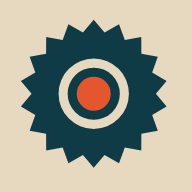
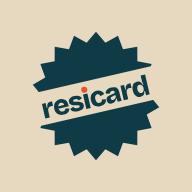
Update branding assets and documentation
Replit-Commit-Author: Agent

Changed region(s): [[0.0938, 0.0938, 0.875, 0.875]]

diff --git a/docs/CHANGELOG.md b/docs/CHANGELOG.md
@@ -5,6 +5,38 @@ The Replit brief in `docs/REPLIT-BRIEF.md` describes how the codebase works and
 does not change between archives; this file is where the version-specific detail
 lives.
 
+## Put the banded mark on the home screen tile, on trial
+
+Not the poster artwork shrunk down, which is a smudge at 56px. Redrawn for
+the tile: the band shorter, the word about a third bigger, and the inner
+ring dropped, because at that size the ring and the band are two competing
+horizontals and the mark turns to mush. Dropping the ring is what buys the
+word its legibility. It holds at 56 and 40 and it says the name, which the
+plain seal never does.
+
+What it costs is the 29px iOS settings list and anything smaller, where it
+goes to a lozenge. So this is a judgement to be made on a real home screen
+over a few days rather than from a contact sheet, and BANDED_APP_ICON in
+scripts/brand-assets.mjs turns it off again in one line.
+
+The maskable stays plain, because Android crops it to a circle and a circle
+through the banded mark cuts both ends off the band. The 32px favicon stays
+plain too and now comes from its own favicon-tile.svg, since 32 is below
+anything the band survives. The brief records which PNG comes from which
+SVG, which was not written down before.
+
+## Fill the app icon: the mark takes 78 per cent of the tile
+
+It was 62, which left the seal marooned in the middle of a sand square.
+Tested at 62, 78 and 88 in a row of real neighbouring icons: 88 pushes the
+scallop tips into the rounded corner, which iOS then masks with a radius of
+its own choosing, so 78 is as much as can be given away while the shape
+still reads as a stamp rather than a texture.
+
+The maskable stays at 60, because Android crops it to a circle.
+
+## Regenerate the changelog
+
 ## The banded seal: the mark says its own name above 72px
 
 The plain seal says nothing, so every application above thumbnail size
@@ -757,10 +789,4 @@ Adds a web app manifest, icons and a non-caching service worker so Resicard
 installs to the home screen, with an install prompt on the resident card tab.
 
 ## Town name on the card, configurable via TOWN_NAME
-
-## Activity tab: summary strip, points blocks, progress bars, coloured feed icons
-
-## Resident Free/Premium with downgrade before cancel
-
-## Contract and schema: resident Free/Premium with downgrade
 

diff --git a/docs/REPLIT-BRIEF.md b/docs/REPLIT-BRIEF.md
@@ -330,11 +330,20 @@ and make sure `drizzle-kit push` appears nowhere in any workflow.
   geometry, the colours and the buoy-once rule. Edit the script and re-run it, or
   the next run silently reverts you. The PNG icons are rasterised from those SVGs
   and committed; the script prints what it wrote.
-- Do not use `mark-banded-*.svg` below 72px, and do not use it for an app icon or
-  a favicon. It is the second state of one mark, not a second mark: above 72px the
-  seal carries the word on a band, below it the band drops and the plain seal is
-  what is left. Banded holds as a shape to about 56px and is a grey lozenge under
-  that, which is the whole reason for the line.
+- Do not use `mark-banded-*.svg` below 72px. It is the second state of one mark,
+  not a second mark: above 72px the seal carries the word on a band, below it the
+  band drops and the plain seal is what is left. Banded holds as a shape to about
+  56px and is a grey lozenge under that, which is the whole reason for the line.
+- The home screen tile is on trial with a banded mark of its own, drawn for the
+  tile rather than scaled down from the poster version. `BANDED_APP_ICON` in
+  `scripts/brand-assets.mjs` switches it back to the plain seal; nothing else
+  needs changing. The maskable and the small favicons are plain either way,
+  because Android's circular crop cuts the ends off the band and 32px is below
+  anything the band survives.
+- Which PNG comes from which SVG, since they are rasterised rather than generated:
+  `icon-512`, `icon-192`, `favicon-512` and `favicon-180` from `app-icon.svg`;
+  `favicon-32` from `favicon-tile.svg`; the two maskables from
+  `icon-maskable.svg`. Re-render all of them after any change to the script.
 - The `mark-banded-on-*.svg` files fill the band with a colour. Use those over a
   photograph only. Everywhere else use the knockout files, which take whatever is
   behind them, so there is one file rather than one per ground.
